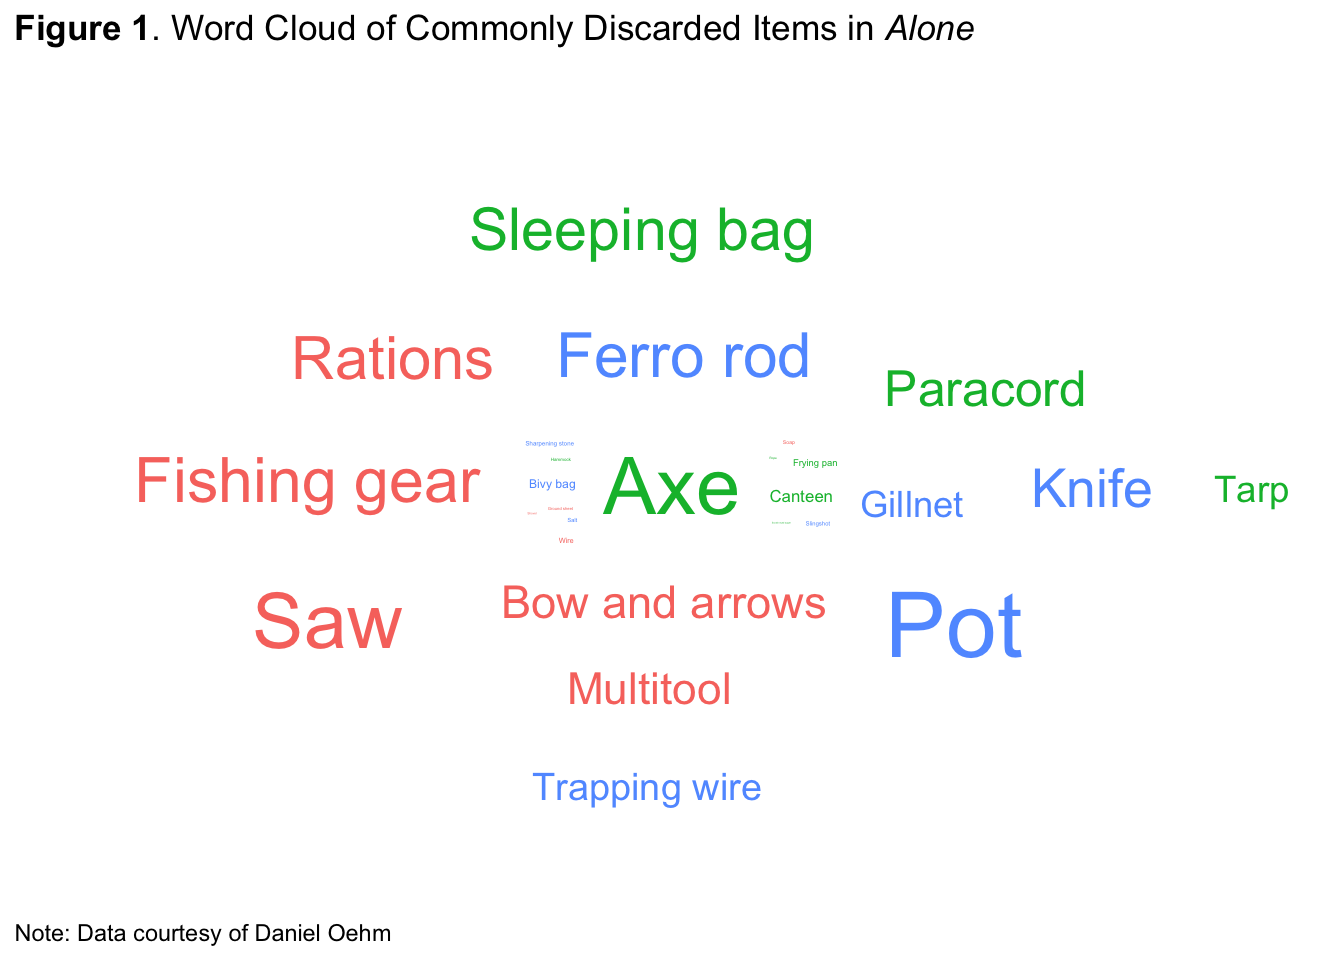
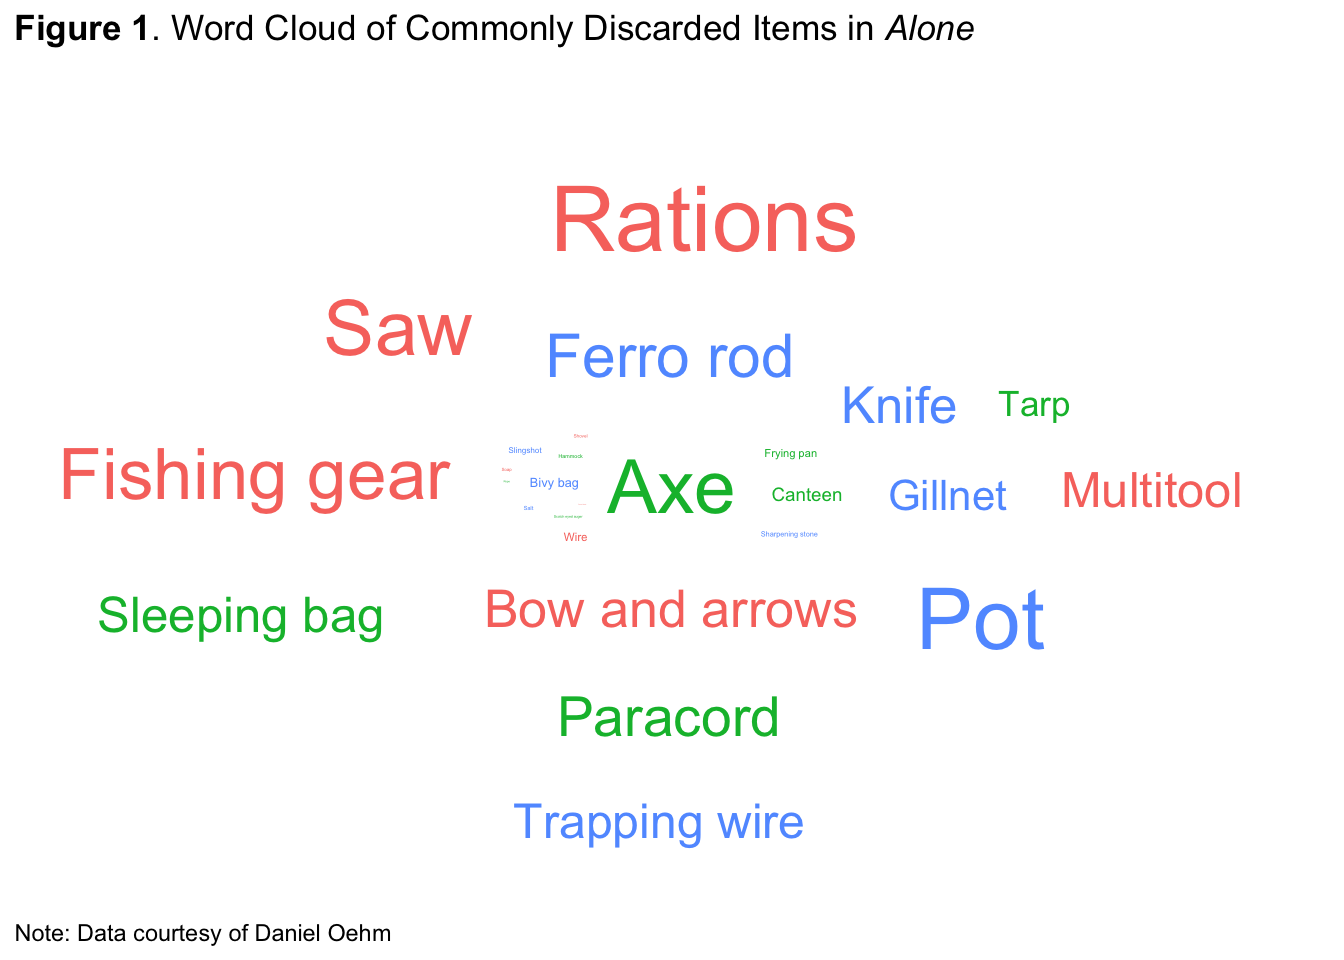
TT 1-25-23

diff --git a/_site/tidytuesday/1_25_23/index.html b/_site/tidytuesday/1_25_23/index.html
@@ -216,40 +216,55 @@ code span.wa { color: #60a0b0; font-weight: bold; font-style: italic; } /* Warni
   
 
 </header><p>For today’s #TidyTuesday (January 25, 2023)<a href="#fn1" class="footnote-ref" id="fnref1" role="doc-noteref"><sup>1</sup></a>, we are looking at the survival TV series <em>Alone</em> which has run since 2015 across 10 seasons. The premise of the show is to put individuals into sparsely populated areas as they try to survive. For today’s visualization we will be looking at the <code>loadouts</code> data set in the <code>alone</code> package<a href="#fn2" class="footnote-ref" id="fnref2" role="doc-noteref"><sup>2</sup></a>. This data set contains information on the participant, the season in which the participant appeared on the show, and the discarded items.</p>
+<p>For this visualization, creating a word cloud would be a very interesting way to visualize which items are most commonly discarded. To attempt this visualization we will need the <code>tidyverse</code>,<code>ggtext</code>, and <code>ggwordcloud</code> packages. To start we want to download the data. You can find the file <a href="https://github.com/rfordatascience/tidytuesday/blob/master/data/2023/2023-01-24/loadouts.csv">here</a>. The code below shows loading in the appropriate packages and reading in the data</p>
 <div class="cell">
 <div class="sourceCode" id="cb1"><pre class="downlit sourceCode r code-with-copy"><code class="sourceCode R"><span><span class="kw"><a href="https://rdrr.io/r/base/library.html">library</a></span><span class="op">(</span><span class="va"><a href="https://tidyverse.tidyverse.org">tidyverse</a></span><span class="op">)</span></span>
 <span><span class="kw"><a href="https://rdrr.io/r/base/library.html">library</a></span><span class="op">(</span><span class="va"><a href="https://wilkelab.org/ggtext/">ggtext</a></span><span class="op">)</span></span>
 <span><span class="kw"><a href="https://rdrr.io/r/base/library.html">library</a></span><span class="op">(</span><span class="va"><a href="https://github.com/lepennec/ggwordcloud">ggwordcloud</a></span><span class="op">)</span></span>
 <span></span>
-<span><span class="va">data</span> <span class="op">&lt;-</span> <span class="fu"><a href="https://rdrr.io/r/utils/read.table.html">read.csv</a></span><span class="op">(</span><span class="st">"loadouts.csv"</span><span class="op">)</span></span>
-<span></span>
-<span><span class="va">p</span> <span class="op">&lt;-</span><span class="va">data</span> <span class="op"><a href="https://magrittr.tidyverse.org/reference/pipe.html">%&gt;%</a></span> </span>
+<span><span class="va">data</span> <span class="op">&lt;-</span> <span class="fu"><a href="https://rdrr.io/r/utils/read.table.html">read.csv</a></span><span class="op">(</span><span class="st">"loadouts.csv"</span><span class="op">)</span></span></code><button title="Copy to Clipboard" class="code-copy-button"><i class="bi"></i></button></pre></div>
+</div>
+<p>After we have downloaded the data, we will need to modify the data a little bit to get some of the information that we will need in the format that we need it in. For the word cloud we need to aggregate the items and count the number of times said item was discarded. To do this we will need to sum the number of items by group. That code can be shown below</p>
+<div class="cell">
+<div class="sourceCode" id="cb2"><pre class="downlit sourceCode r code-with-copy"><code class="sourceCode R"><span><span class="va">data</span> <span class="op">&lt;-</span> <span class="va">data</span> <span class="op"><a href="https://magrittr.tidyverse.org/reference/pipe.html">%&gt;%</a></span> </span>
 <span>  <span class="fu"><a href="https://dplyr.tidyverse.org/reference/mutate.html">mutate</a></span><span class="op">(</span>item <span class="op">=</span> <span class="fu"><a href="https://rdrr.io/r/base/factor.html">as.factor</a></span><span class="op">(</span><span class="va">item</span><span class="op">)</span><span class="op">)</span> <span class="op"><a href="https://magrittr.tidyverse.org/reference/pipe.html">%&gt;%</a></span></span>
-<span>  <span class="fu"><a href="https://dplyr.tidyverse.org/reference/group_by.html">group_by</a></span><span class="op">(</span><span class="va">item</span><span class="op">)</span> <span class="op"><a href="https://magrittr.tidyverse.org/reference/pipe.html">%&gt;%</a></span> <span class="fu"><a href="https://dplyr.tidyverse.org/reference/summarise.html">summarize</a></span><span class="op">(</span>n <span class="op">=</span> <span class="fu"><a href="https://dplyr.tidyverse.org/reference/context.html">n</a></span><span class="op">(</span><span class="op">)</span>,.groups <span class="op">=</span> <span class="st">"drop"</span><span class="op">)</span> <span class="op"><a href="https://magrittr.tidyverse.org/reference/pipe.html">%&gt;%</a></span> </span>
-<span>  <span class="fu"><a href="https://dplyr.tidyverse.org/reference/mutate.html">mutate</a></span><span class="op">(</span>color <span class="op">=</span> <span class="fu"><a href="https://rdrr.io/r/base/rep.html">rep</a></span><span class="op">(</span><span class="fu"><a href="https://rdrr.io/r/base/c.html">c</a></span><span class="op">(</span><span class="st">"darkgreen"</span>,<span class="st">"darkred"</span>,<span class="st">"darkblue"</span><span class="op">)</span>,<span class="fl">9</span><span class="op">)</span><span class="op">)</span> <span class="op"><a href="https://magrittr.tidyverse.org/reference/pipe.html">%&gt;%</a></span> </span>
-<span>  <span class="fu"><a href="https://ggplot2.tidyverse.org/reference/ggplot.html">ggplot</a></span><span class="op">(</span><span class="fu"><a href="https://ggplot2.tidyverse.org/reference/aes.html">aes</a></span><span class="op">(</span>label <span class="op">=</span> <span class="va">item</span>, size <span class="op">=</span> <span class="va">n</span>, color <span class="op">=</span> <span class="va">color</span><span class="op">)</span><span class="op">)</span> <span class="op">+</span> </span>
+<span>  <span class="fu"><a href="https://dplyr.tidyverse.org/reference/group_by.html">group_by</a></span><span class="op">(</span><span class="va">item</span><span class="op">)</span> <span class="op"><a href="https://magrittr.tidyverse.org/reference/pipe.html">%&gt;%</a></span> <span class="fu"><a href="https://dplyr.tidyverse.org/reference/summarise.html">summarize</a></span><span class="op">(</span>n_item <span class="op">=</span> <span class="fu"><a href="https://rdrr.io/r/base/sum.html">sum</a></span><span class="op">(</span><span class="va">item_number</span><span class="op">)</span>,.groups <span class="op">=</span> <span class="st">"drop"</span><span class="op">)</span> <span class="op"><a href="https://magrittr.tidyverse.org/reference/pipe.html">%&gt;%</a></span> </span>
+<span>  <span class="fu"><a href="https://dplyr.tidyverse.org/reference/mutate.html">mutate</a></span><span class="op">(</span>color <span class="op">=</span> <span class="fu"><a href="https://rdrr.io/r/base/rep.html">rep</a></span><span class="op">(</span><span class="fu"><a href="https://rdrr.io/r/base/c.html">c</a></span><span class="op">(</span><span class="st">"darkgreen"</span>,<span class="st">"darkred"</span>,<span class="st">"darkblue"</span><span class="op">)</span>,<span class="fl">9</span><span class="op">)</span><span class="op">)</span> </span></code><button title="Copy to Clipboard" class="code-copy-button"><i class="bi"></i></button></pre></div>
+</div>
+<div class="{callout-note}">
+<p>I have added a <code>color</code> variable to add color to the word cloud labels later</p>
+</div>
+<p>Once initial data wrangling has been done, it is time to actually start the visualization. To do this we are going to feed our data into a <code>ggplot2</code> pipeline. We will be assigning the <code>item</code> variable to the label argument and the <code>n_item</code> variable to the size argument. This will tell ggplot to label the word cloud with the appropriate labeling convention while mapping the size of the word to the number of times it is discarded in total across the 10 seasons.</p>
+<p>For aesthetic purposes, I’ve decided to make the word cloud figure diamond shaped but there are multiple shapes one could use (e.g., a circle).</p>
+<div class="cell">
+<div class="sourceCode" id="cb3"><pre class="downlit sourceCode r code-with-copy"><code class="sourceCode R"><span><span class="va">p</span> <span class="op">&lt;-</span> <span class="va">data</span> <span class="op"><a href="https://magrittr.tidyverse.org/reference/pipe.html">%&gt;%</a></span> <span class="fu"><a href="https://ggplot2.tidyverse.org/reference/ggplot.html">ggplot</a></span><span class="op">(</span><span class="fu"><a href="https://ggplot2.tidyverse.org/reference/aes.html">aes</a></span><span class="op">(</span>label <span class="op">=</span> <span class="va">item</span>, size <span class="op">=</span> <span class="va">n_item</span>, color <span class="op">=</span> <span class="va">color</span><span class="op">)</span><span class="op">)</span> <span class="op">+</span> </span>
 <span>  <span class="fu"><a href="https://lepennec.github.io/ggwordcloud/reference/geom_text_wordcloud.html">geom_text_wordcloud_area</a></span><span class="op">(</span>show_boxes <span class="op">=</span> <span class="cn">FALSE</span>,</span>
 <span>                           shape <span class="op">=</span> <span class="st">"diamond"</span><span class="op">)</span> <span class="op">+</span> </span>
 <span>  <span class="fu"><a href="https://ggplot2.tidyverse.org/reference/scale_size.html">scale_size_area</a></span><span class="op">(</span>max_size <span class="op">=</span> <span class="fl">12</span><span class="op">)</span></span></code><button title="Copy to Clipboard" class="code-copy-button"><i class="bi"></i></button></pre></div>
 </div>
+<p>Below we see what the code above generates. This looks reasonably good but we can do some more with this graphic such as adding a title, doing some theme changes, adding a caption, and ensuring there is some alt text describing the graphic embedded in the webpage that should be available if one inspects the HTML</p>
 <div class="cell">
 <div class="cell-output-display">
 <p><img src="index_files/figure-html/basic plot output-1.png" class="img-fluid" width="672"></p>
 </div>
 </div>
+<p>To add the title, caption and alt text, we can use the code shown below</p>
 <div class="cell">
-<div class="sourceCode" id="cb2"><pre class="downlit sourceCode r code-with-copy"><code class="sourceCode R"><span><span class="va">p</span> <span class="op">&lt;-</span> <span class="va">p</span>  <span class="op">+</span> </span>
+<div class="sourceCode" id="cb4"><pre class="downlit sourceCode r code-with-copy"><code class="sourceCode R"><span><span class="va">p</span> <span class="op">&lt;-</span> <span class="va">p</span>  <span class="op">+</span> </span>
 <span>  <span class="fu"><a href="https://ggplot2.tidyverse.org/reference/labs.html">labs</a></span><span class="op">(</span>title <span class="op">=</span> <span class="st">"**Figure 1**. Word Cloud of Commonly Discarded Items in *Alone*"</span>,</span>
-<span>       caption <span class="op">=</span> <span class="st">"Note: Data courtesy of Daniel Oehm"</span><span class="op">)</span> <span class="op">+</span> </span>
+<span>       caption <span class="op">=</span> <span class="st">"Note: Data courtesy of Daniel Oehm"</span>,</span>
+<span>       alt <span class="op">=</span> <span class="fu"><a href="https://rdrr.io/r/base/paste.html">paste</a></span><span class="op">(</span><span class="st">"A word cloud of mostly commonly discarded items on Alone"</span><span class="op">)</span><span class="op">)</span> <span class="op">+</span> </span>
 <span>  <span class="fu"><a href="https://ggplot2.tidyverse.org/reference/ggtheme.html">theme_minimal</a></span><span class="op">(</span><span class="op">)</span> <span class="op">+</span> </span>
 <span>  <span class="fu"><a href="https://ggplot2.tidyverse.org/reference/theme.html">theme</a></span><span class="op">(</span>plot.title <span class="op">=</span> <span class="fu"><a href="https://wilkelab.org/ggtext/reference/element_markdown.html">element_markdown</a></span><span class="op">(</span><span class="op">)</span><span class="op">)</span> <span class="op">+</span></span>
 <span>  <span class="fu"><a href="https://ggplot2.tidyverse.org/reference/theme.html">theme</a></span><span class="op">(</span>plot.caption <span class="op">=</span> <span class="fu"><a href="https://ggplot2.tidyverse.org/reference/element.html">element_text</a></span><span class="op">(</span>hjust <span class="op">=</span> <span class="fl">0</span><span class="op">)</span><span class="op">)</span></span></code><button title="Copy to Clipboard" class="code-copy-button"><i class="bi"></i></button></pre></div>
 </div>
+<p>The above code gets us the following graphic. Quite honestly I think this looks good</p>
 <div class="cell">
 <div class="cell-output-display">
 <p><img src="index_files/figure-html/unnamed-chunk-2-1.png" class="img-fluid" alt="A word cloud of mostly commonly discarded items on Alone" width="672"></p>
 </div>
 </div>
+<p>I hope you’ve enjoyed this quick data visualization. Let me know what changes you might make in the comments below</p>
 
 
 <div id="quarto-appendix" class="default"><section id="footnotes" class="footnotes footnotes-end-of-document" role="doc-endnotes"><h2 class="anchored quarto-appendix-heading">Footnotes</h2>

diff --git a/_site/tidytuesday.html b/_site/tidytuesday.html
@@ -73,9 +73,9 @@ ul.task-list li input[type="checkbox"] {
     }
 
     const options = {
-      valueNames: ['listing-categories',{ data: ['index'] },{ data: ['categories'] },{ data: ['listing-date-sort'] },{ data: ['listing-file-modified-sort'] }],
+      valueNames: ['listing-date','listing-title','listing-author','listing-description','listing-categories',{ data: ['index'] },{ data: ['categories'] },{ data: ['listing-date-sort'] },{ data: ['listing-file-modified-sort'] }],
       
-      searchColumns: ["listing-categories"],
+      searchColumns: ["listing-date","listing-title","listing-author","listing-description","listing-categories"],
     };
 
     window['quarto-listings'] = window['quarto-listings'] || {};
@@ -180,7 +180,7 @@ ul.task-list li input[type="checkbox"] {
 <!-- margin-sidebar -->
     <div id="quarto-margin-sidebar" class="sidebar margin-sidebar">
         
-    <h5 class="quarto-listing-category-title">Categories</h5><div class="quarto-listing-category category-default"><div class="category" data-category="">All <span class="quarto-category-count">(0)</span></div></div></div>
+    <h5 class="quarto-listing-category-title">Categories</h5><div class="quarto-listing-category category-default"><div class="category" data-category="">All <span class="quarto-category-count">(1)</span></div><div class="category" data-category="Alone">Alone <span class="quarto-category-count">(1)</span></div><div class="category" data-category="R">R <span class="quarto-category-count">(1)</span></div><div class="category" data-category="TidyTuesday">TidyTuesday <span class="quarto-category-count">(1)</span></div></div></div>
 <!-- main -->
 <main class="content quarto-banner-title-block column-page-left" id="quarto-document-content">
 
@@ -193,7 +193,44 @@ ul.task-list li input[type="checkbox"] {
 
 <div class="quarto-listing quarto-listing-container-default" id="listing-listing">
 <div class="list quarto-listing-default">
+<div class="quarto-post image-right" data-index="0" data-categories="Alone,R,TidyTuesday" data-listing-date-sort="1674622800000" data-listing-file-modified-sort="1674614943864" data-listing-reading-time-sort="3.265">
+<div class="body">
+<a href="./tidytuesday/1_25_23/index.html">
+<h3 class="no-anchor listing-title">
+Tidy Tuesday 1-25-23
+</h3>
+<div class="listing-subtitle">
 
+</div>
+</a>
+<div class="listing-categories">
+<div class="listing-category" onclick="window.quartoListingCategory('Alone'); return false;">
+Alone
+</div>
+<div class="listing-category" onclick="window.quartoListingCategory('R'); return false;">
+R
+</div>
+<div class="listing-category" onclick="window.quartoListingCategory('TidyTuesday'); return false;">
+TidyTuesday
+</div>
+</div>
+<a href="./tidytuesday/1_25_23/index.html">
+<div class="listing-description">
+For today’s #TidyTuesday (January 25, 2023)<sup>1</sup>, we are looking at the survival TV series <em>Alone</em> which has run since 2015 across 10 seasons. The premise of the show is to put individuals into sparsely…<code></code><code></code><sup></sup>
+</div>
+</a>
+</div>
+<div class="metadata">
+<a href="./tidytuesday/1_25_23/index.html">
+<div class="listing-date">
+Jan 25, 2023
+</div>
+<div class="listing-author">
+Brier S. Gallihugh
+</div>
+</a>
+</div>
+</div>
 </div>
 <div class="listing-no-matching d-none">
 No matching items
